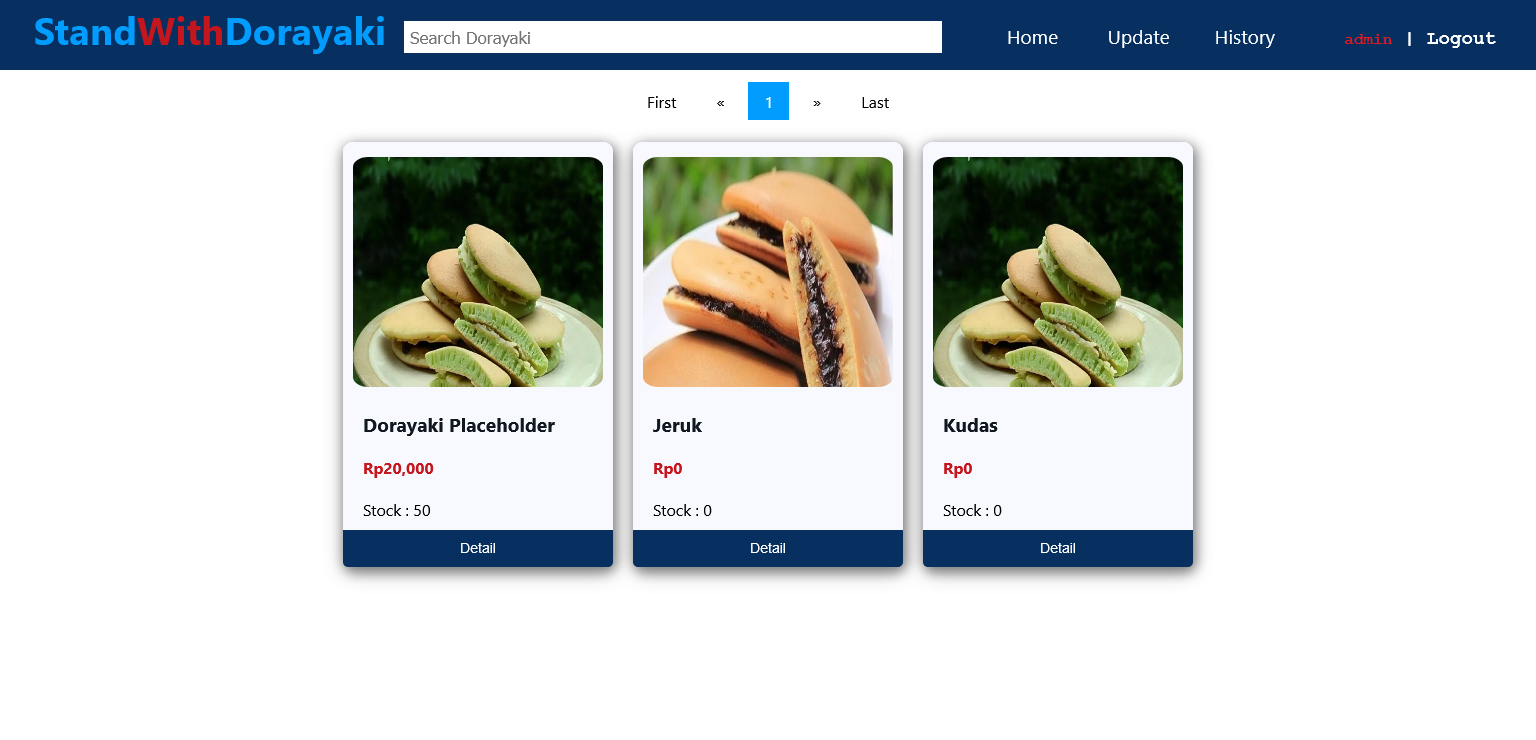
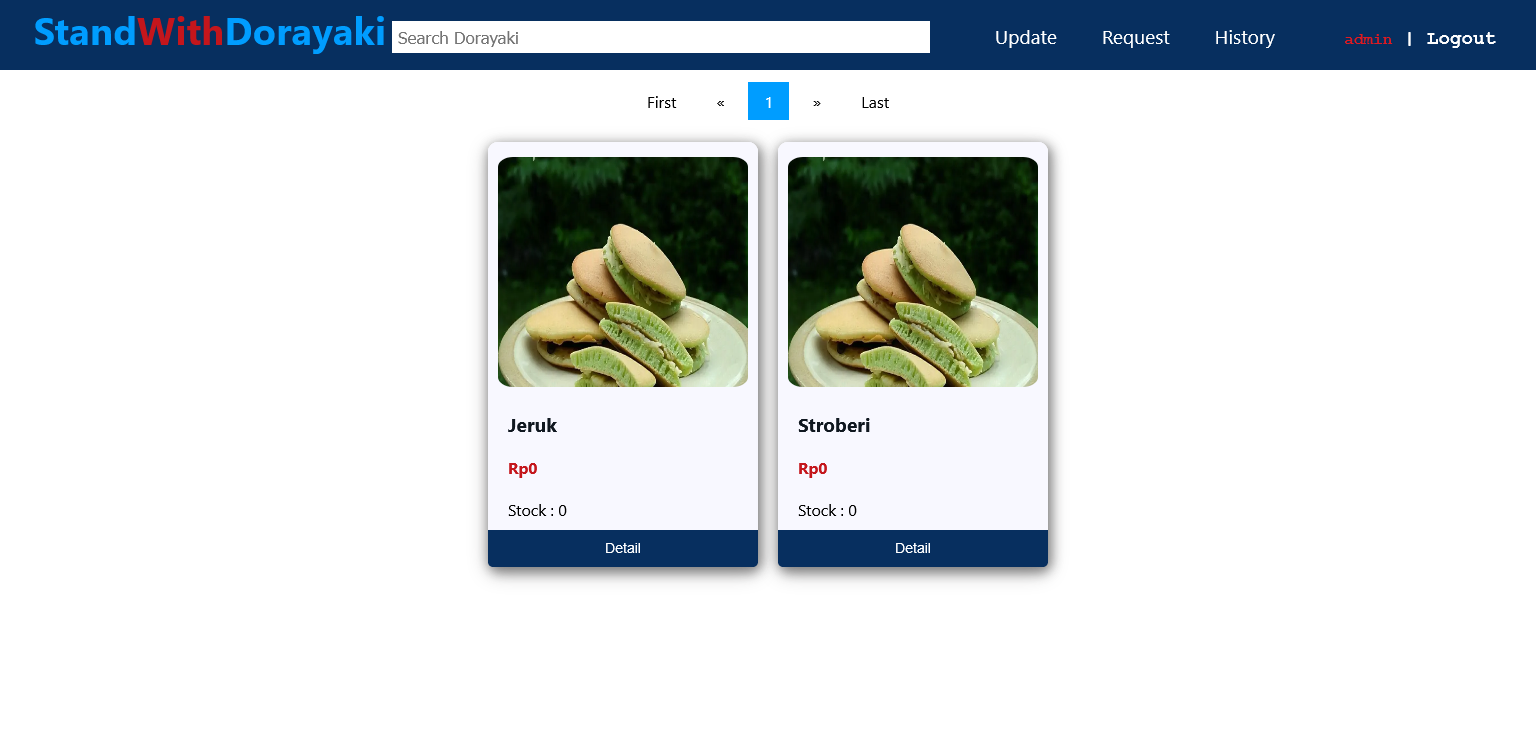
fix update, add request page, add sync req w/ soap

diff --git a/pages/sync.php b/pages/sync.php
@@ -1,6 +1,76 @@
 <?php
+session_start();
+require '../util/loginAuth.php';
+if(!$_SESSION['is_admin']){
+    header("Location: dashboard.php");
+}
+include('../util/item_util.php')?>
+<!-- Validation Soon -->
+<!-- Dorayaki Variant Updater (fromSOAP)-->
 
-// buat sync nanti
-
-
+<?php 
+    $client = new SoapClient("http://localhost:8080/DoraSupp/ws/req?wsdl");
+    $resp = $client->getStatus("http://localhost:8000");
+    $db = new SQLite3('../db/basdat.db');
+    $sql = "SELECT r.trans_time FROM dorayaki as d,request as r where d.id_dorayaki = r.id_dorayaki AND r.status ='pending'";
+    $trans = [];
+    $defname = "admin";
+    foreach($resp as $r){
+        foreach($r as $s){
+            if(gettype($s) == 'array'){
+                if($s[1] == "accepted" or $s[1]=="rejected"){
+                    $tu = $s[0];
+                    $tv = $s[1];
+                    $q1 ="SELECT r.id_dorayaki as id,r.qty as qty,d.price*r.qty as prc FROM `dorayaki` as d,`request` as r WHERE d.id_dorayaki = r.id_dorayaki AND r.trans_time ='$tu'";
+                    $req = [];
+                    $r1 = $db->query($q1);
+                    while ($rez = $r1->fetchArray(1)) {
+                        array_push($req, $rez);
+                    }
+                    $idr = $req[0]["id"];
+                    $qt = $req[0]["qty"];
+                    $tpc = $req[0]["prc"];
+                    $q2 = "UPDATE `request` SET status='$tv' WHERE trans_time='$tu'";
+                    $r2 = $db->exec($q2);
+                    if($t[1] == "accepted"){
+                        $q5 = "UPDATE `dorayaki` SET amount = amount + '$qt' WHERE id_dorayaki = '$idr'";
+                        $r5 = $db->exec($q5);
+                        date_default_timezone_set('Asia/Jakarta');
+                        $deto = date("Y-m-d H:i:s");
+                        $q3 = "INSERT INTO `transactions` (username,id_dorayaki,total_buy,total_price,trans_time) VALUES ('$defname','$idr','$qt',0,'$deto')";
+                        $r3 = $db->exec($q3);
+                    }
+                }
+            }
+            else{
+                foreach($s as $t){
+                    if($t[1] == "accepted" or $t[1]=="rejected"){
+                        $tu = $t[0];
+                        $tv = $t[1];
+                        $q1 ="SELECT r.id_dorayaki as id,r.qty as qty,d.price*r.qty as prc FROM `dorayaki` as d,`request` as r WHERE d.id_dorayaki = r.id_dorayaki AND r.trans_time ='$tu'";
+                        $req = [];
+                        $r1 = $db->query($q1);
+                        while ($rez = $r1->fetchArray(1)) {
+                            array_push($req, $rez);
+                        }
+                        $idr = $req[0]["id"];
+                        $qt = $req[0]["qty"];
+                        $tpc = $req[0]["prc"];
+                        $q2 = "UPDATE `request` SET status='$tv' WHERE trans_time='$tu'";
+                        $r2 = $db->exec($q2);
+                        if($t[1] == "accepted"){
+                            $q5 = "UPDATE `dorayaki` SET amount = amount + '$qt' WHERE id_dorayaki = '$idr'";
+                            $r5 = $db->exec($q5);
+                            date_default_timezone_set('Asia/Jakarta');
+                            $deto = date("Y-m-d H:i:s");
+                            $q3 = "INSERT INTO `transactions` (username,id_dorayaki,total_buy,total_price,trans_time) VALUES ('$defname','$idr','$qt',0,'$deto')";
+                            $r3 = $db->exec($q3);
+                        }
+                    }
+                }
+            }
+        }
+    }
+    $db->close();
+    header("Location: request.php");
 ?>

diff --git a/util/item_util.php b/util/item_util.php
@@ -76,15 +76,15 @@
 
     function getAmountSold($itemid){
         $db = new SQLite3('../db/basdat.db');
-        $sql = "SELECT id_dorayaki from transactions WHERE id_dorayaki = $itemid";
+        $sql = "SELECT sum(total_buy) as countsold from transactions WHERE id_dorayaki = $itemid AND total_price > 0 GROUP BY id_dorayaki";
         $transaction = [];
         $results = $db->query($sql);
         while ($res = $results->fetchArray(1)) {
             array_push($transaction, $res);
         }
         $db->close();
-        $sold = count($transaction);
-        return $sold;
+        if(count($transaction) > 0) {return $transaction[0]["countsold"];}
+        return 0;
 
     }
 
@@ -111,7 +111,7 @@
             }
             else{
                 date_default_timezone_set('Asia/Jakarta');
-                $dt = date("Y-m-d h:i:sa");
+                $dt = date("Y-m-d H:i:s");
                 $price = $iteminfo[0]["price"] * $removed;
                 $sql = "UPDATE dorayaki SET amount = amount - $removed WHERE id_dorayaki = $id";
                 $res = $db->exec($sql);
@@ -142,7 +142,7 @@
             }
             else{
                 date_default_timezone_set('Asia/Jakarta');
-                $dt = date("Y-m-d h:i:sa");
+                $dt = date("Y-m-d H:i:s");
                 $price = 0;
                 $sql = "UPDATE dorayaki SET amount = amount + $added WHERE id_dorayaki = $id";
                 $res = $db->exec($sql);
@@ -229,16 +229,17 @@
             $uname = $_SESSION['usernameEmail'];
             $added = $_POST['qty']; 
             $iteminfo = getItem($id);
+            $namae = $iteminfo[0]['nama'];
             if($iteminfo[0]['amount'] + $added < 0){
                 $db->close();
                 echo '<span style="color:#C4161C;">Final Amount Cannot be Negative</span>';
             }
             else{
                 date_default_timezone_set('Asia/Jakarta');
-                $dt = date("Y-m-d h:i:sa");
+                $dt = date("Y-m-d H:i:s");
                 try{
                     $client = new SoapClient("http://localhost:8080/DoraSupp/ws/req?wsdl");
-                    $resp = $client->insertRequest($id,$added,"http://localhost:8000",$dt,"request");
+                    $resp = $client->insertRequest($namae,$added,"http://localhost:8000",$dt,"request");
                 }
                 catch(SoapFault $e){
                     echo $e->getMessage();

diff --git a/db/init_sample.php b/db/init_sample.php
@@ -27,33 +27,33 @@
 
     # insert to dorayaki table
 
-    $sql =[
-      "INSERT INTO `dorayaki` VALUES (0, 'Dorayaki Placeholder', 20000, 50, 'Pandannya Wangy!', 'img/dorapandan.jpg');",
-   ];
+   //  $sql =[
+   //    "INSERT INTO `dorayaki` VALUES (0, 'Dorayaki Placeholder', 20000, 50, 'Pandannya Wangy!', 'img/dorapandan.jpg');",
+   // ];
 
-   foreach($sql as $que){
-      $ret = $db->exec($que);
-      if(!$ret){
-         echo $db->lastErrorMsg();
-       } else {
-         echo "users dorayaki updated successfully\n";
-       }
-   }
+   // foreach($sql as $que){
+   //    $ret = $db->exec($que);
+   //    if(!$ret){
+   //       echo $db->lastErrorMsg();
+   //     } else {
+   //       echo "users dorayaki updated successfully\n";
+   //     }
+   // }
 
-   # insert to transactions table
+   // # insert to transactions table
 
-   $sql =[
-      "INSERT INTO `transactions` VALUES (0, 'shev', 0, 2,40000,'2021-01-01 10:00:00');",
-   ];
+   // $sql =[
+   //    "INSERT INTO `transactions` VALUES (0, 'shev', 0, 2,40000,'2021-01-01 10:00:00');",
+   // ];
 
-   foreach($sql as $que){
-      $ret = $db->exec($que);
-      if(!$ret){
-          echo $db->lastErrorMsg();
-       } else {
-          echo "users transactions updated successfully\n";
-       }
-   }
+   // foreach($sql as $que){
+   //    $ret = $db->exec($que);
+   //    if(!$ret){
+   //        echo $db->lastErrorMsg();
+   //     } else {
+   //        echo "users transactions updated successfully\n";
+   //     }
+   // }
 
 
    function select_all($table_name,$db){

diff --git a/pages/update.php b/pages/update.php
@@ -15,10 +15,25 @@ include('../util/item_util.php')?>
     $desc = 'Pandannya Wangy!';
     $img = 'img/dorapandan.jpg';
     foreach($resp as $r){
-        foreach($r as $item){
-            $sql = "INSERT INTO `dorayaki`(nama,price,amount,description,img_source) VALUES ('$item',0,0,'$desc','$img');";
+        if(gettype($r)=='string'){
+            $sql = "INSERT INTO `dorayaki`(nama,price,amount,description,img_source) VALUES ('$r',0,0,'$desc','$img');";
             $exc = $db->exec($sql);
+        }
+        else{
+            foreach($r as $item){
+                $sql = "INSERT INTO `dorayaki`(nama,price,amount,description,img_source) VALUES ('$item',0,0,'$desc','$img');";
+                $exc = $db->exec($sql);
+            }
         }
     }
     header("Location: dashboard.php");
+
+    // foreach($resp as $r){
+    //     foreach($r as $item){
+    //         $sql = "INSERT INTO `dorayaki`(nama,price,amount,description,img_source) VALUES ('$item',0,0,'$desc','$img');";
+    //         $exc = $db->exec($sql);
+    //     }
+    // }
+    // header("Location: dashboard.php");
+    
 ?>

diff --git a/util/hist_util.php b/util/hist_util.php
@@ -164,7 +164,7 @@ function prodTable($id){
 
 function reqTable(){
     $db = new SQLite3('../db/basdat.db');
-    $sql = "SELECT d.nama,r.qty,r.status,r.trans_time FROM dorayaki as d,request as r where d.id_dorayaki = r.id_dorayaki";
+    $sql = "SELECT d.nama,r.qty,r.status,r.trans_time FROM dorayaki as d,request as r where d.id_dorayaki = r.id_dorayaki AND r.status ='pending'";
     $trans = [];
     $stmt = $db->prepare($sql);
     $results = $stmt->execute();

diff --git a/README.md b/README.md
@@ -48,7 +48,7 @@ Fitur-fitur yang tersedia meliputi :
 - Transaction History ![History](./screenshots/history-admin.png)
 - Product Specific History ![ProHist](./screenshots/prospec-hist.png)
 - Search Result ![Search](./screenshots/search-result.png)
-- Perubahan Tubes2 : dashboard admin ![Dasubodo](./screenshots/dasubodo.png)
+- Perubahan Tubes 2 : navbar admin & halaman request ![Request](./screenshots/request.png)
 
 
 ## Perubahan Pada Tugas Besar 2
@@ -59,6 +59,7 @@ Fitur-fitur yang tersedia meliputi :
 - Untuk menambah dan mengurangi stok dorayaki pada halaman edit_amount dilakukan request perubahan stok 
   lewat protokol SOAP pada Java Servlet (submitChangeSOAP pada util/item_util.php) 
 - Menambahkan halaman yang isinya pending request perubahan stok dorayaki dan melakukan sinkronisasi request dengan SOAP
+- Perubahan skema basis data : menambahkan tabel request pada basis data yang berisi daftar request perubahan stok dorayaki 
 
 ## Pembagian Tugas
 ### Server-side
@@ -73,6 +74,7 @@ Fitur-fitur yang tersedia meliputi :
 - Docker : -
 - Halaman Riwayat Pengubahan stok/Pembelian dorayaki : 13519018
 - Halaman Update : 13519018 
+- Halaman Request + Sync : 13519018
 
 
 ### Client-side
@@ -86,3 +88,4 @@ Fitur-fitur yang tersedia meliputi :
 - Responsive design : 13519018, 13519069, 13519091
 - Halaman Riwayat Pengubahan stok/Pembelian dorayaki : 13519018
 - Halaman Update : 13519018 
+- Halaman Request + Sync : 13519018
